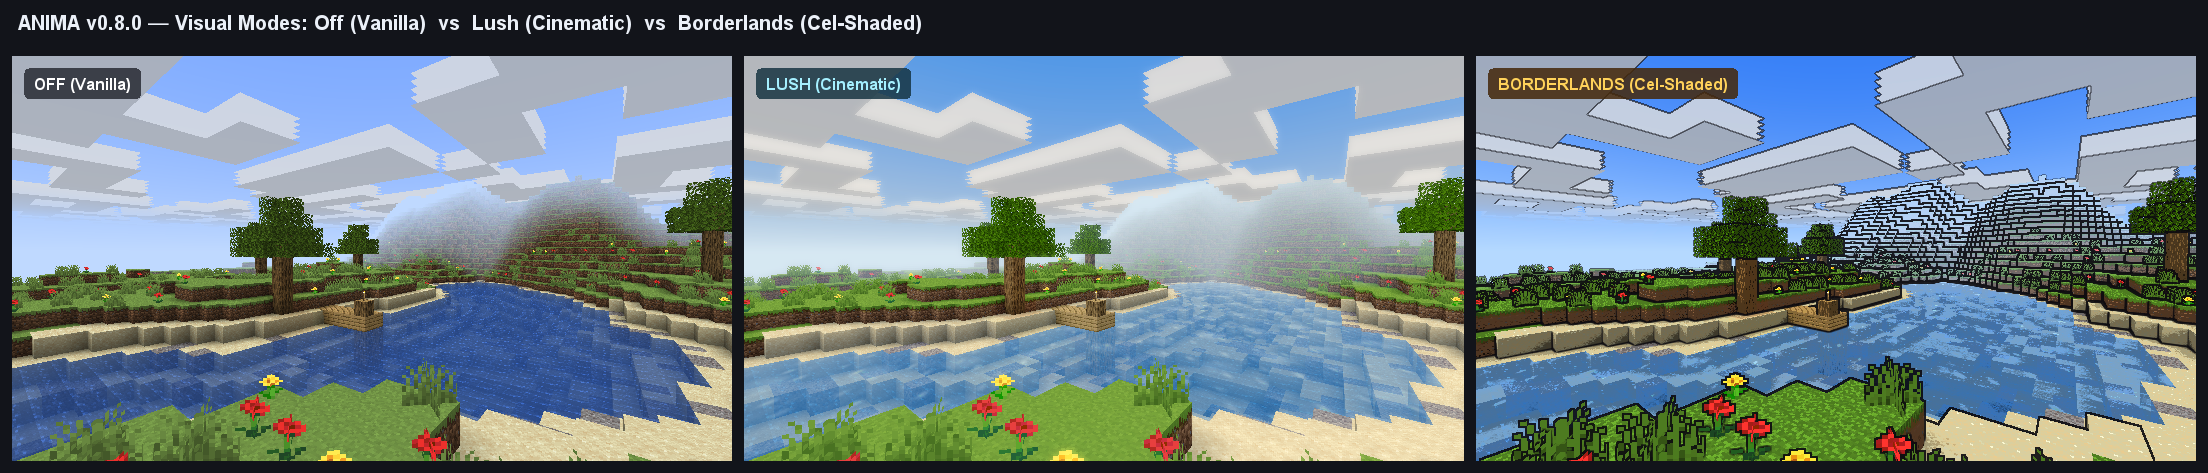
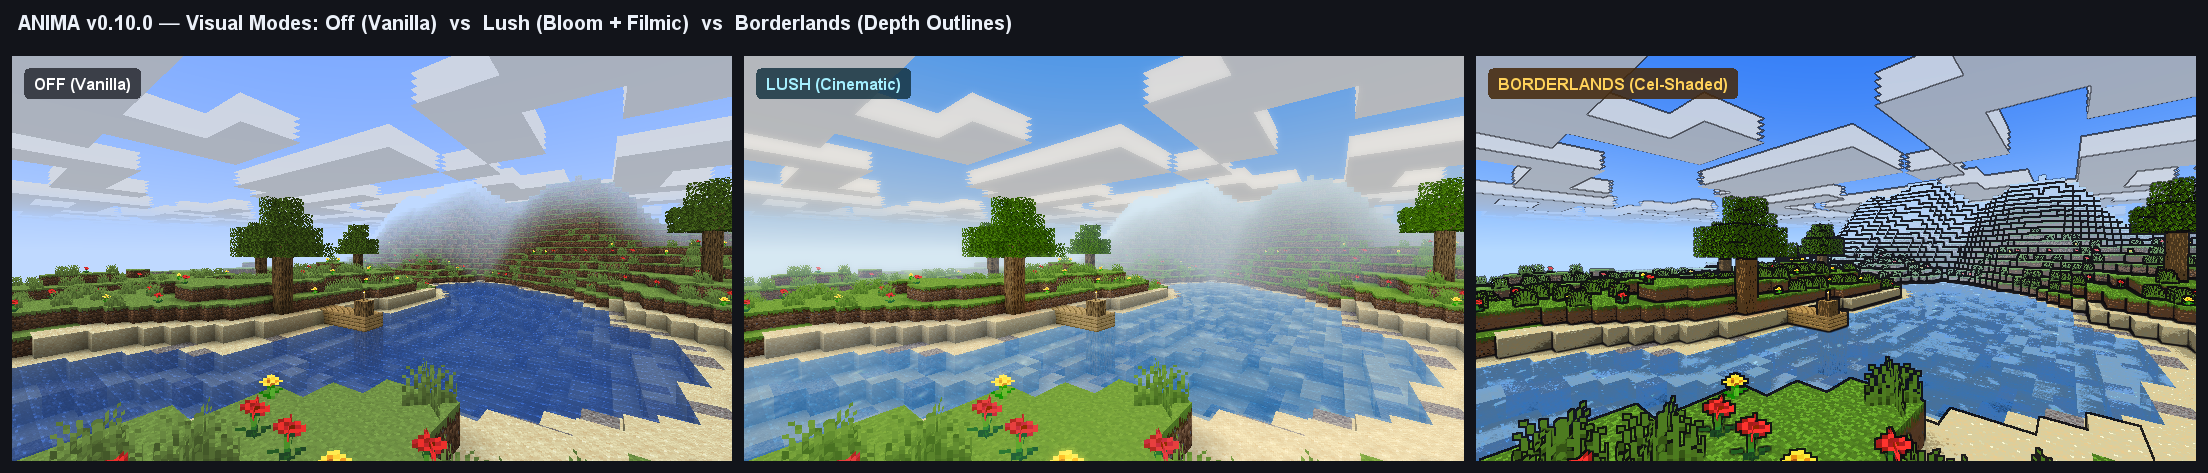
chore(renderer): update v0.10.0 render labels and regenerate comparison sheets

Changed region(s): [[0.0312, 0.0296, 0.4688, 0.0888]]

diff --git a/Anima-renderer/src/dev/anima/renderer/AnimaRendererMain.java b/Anima-renderer/src/dev/anima/renderer/AnimaRendererMain.java
@@ -120,11 +120,11 @@ public final class AnimaRendererMain {
         sg.fillRect(0, 0, sunSheet.getWidth(), sunSheet.getHeight());
         sg.setFont(new Font("SansSerif", Font.BOLD, 20));
         sg.setColor(new Color(235, 240, 248));
-        sg.drawString("ANIMA v0.7.0 (Lush) — Pixel-Art Sun & Crystal Wavy Water (Vanilla vs Anima Lush)", pad + 6, 30);
+        sg.drawString("ANIMA v0.10.0 (Lush) — Pixel-Art Sun & Crystal Wavy Water (Vanilla vs Anima Lush)", pad + 6, 30);
         sg.drawImage(sunVan, pad, headerH + pad, null);
         sg.drawImage(sunAni, pad * 2 + width, headerH + pad, null);
         drawBadge(sg, pad + 14, headerH + pad + 14, "VANILLA — Square Sun & Flat Water", new Color(25, 28, 35, 195), Color.WHITE);
-        drawBadge(sg, pad * 2 + width + 14, headerH + pad + 14, "ANIMA v0.7.0 (Lush) — Crystal Water & Pixel-Art Sun", new Color(18, 48, 62, 210), new Color(165, 240, 255));
+        drawBadge(sg, pad * 2 + width + 14, headerH + pad + 14, "ANIMA v0.10.0 (Lush) — Crystal Water & Pixel-Art Sun", new Color(18, 48, 62, 210), new Color(165, 240, 255));
         sg.dispose();
         Path sunPath = outDir.resolve("sun_showcase.png");
         ImageIO.write(sunSheet, "png", sunPath.toFile());
@@ -144,7 +144,7 @@ public final class AnimaRendererMain {
         mg.fillRect(0, 0, modeSheet.getWidth(), modeSheet.getHeight());
         mg.setFont(new Font("SansSerif", Font.BOLD, 20));
         mg.setColor(new Color(235, 240, 248));
-        mg.drawString("ANIMA v0.8.0 — Visual Modes: Off (Vanilla)  vs  Lush (Cinematic)  vs  Borderlands (Cel-Shaded)", pad + 6, 30);
+        mg.drawString("ANIMA v0.10.0 — Visual Modes: Off (Vanilla)  vs  Lush (Bloom + Filmic)  vs  Borderlands (Depth Outlines)", pad + 6, 30);
         mg.drawImage(mVan, pad, headerH + pad, null);
         mg.drawImage(mLush, pad * 2 + mw, headerH + pad, null);
         mg.drawImage(mBord, pad * 3 + mw * 2, headerH + pad, null);
@@ -188,7 +188,7 @@ public final class AnimaRendererMain {
             cg.fillRect(0, 0, cmp.getWidth(), cmp.getHeight());
             cg.setFont(new Font("SansSerif", Font.BOLD, 20));
             cg.setColor(new Color(235, 240, 248));
-            cg.drawString("3-WAY BENCHMARK: Vanilla 26.2  vs  Anima v0.7.0 Lush (Zero-Shader Mod)  vs  " + pack.name + " (" + pack.glslFileCount + " GLSL files)", pad + 6, 30);
+            cg.drawString("3-WAY BENCHMARK: Vanilla 26.2  vs  Anima v0.10.0 Lush (Bloom + Filmic)  vs  " + pack.name + " (" + pack.glslFileCount + " GLSL files)", pad + 6, 30);
 
             for (int i = 0; i < scenarios.length; i++) {
                 Scenario s = scenarios[i];
@@ -219,7 +219,7 @@ public final class AnimaRendererMain {
                 cg.drawImage(imgS, pad * 3 + cw * 2, rowY, null);
 
                 drawBadge(cg, pad + 10, rowY + 10, "VANILLA — " + s.id.toUpperCase() + " (" + tvMs + "ms)", new Color(25, 28, 35, 195), Color.WHITE);
-                drawBadge(cg, pad * 2 + cw + 10, rowY + 10, "ANIMA v0.7.0 LUSH — " + s.id.toUpperCase() + " (" + taMs + "ms)", new Color(18, 48, 62, 210), new Color(165, 240, 255));
+                drawBadge(cg, pad * 2 + cw + 10, rowY + 10, "ANIMA v0.10.0 LUSH — " + s.id.toUpperCase() + " (" + taMs + "ms)", new Color(18, 48, 62, 210), new Color(165, 240, 255));
                 drawBadge(cg, pad * 3 + cw * 2 + 10, rowY + 10, pack.name + " (" + tsMs + "ms)", new Color(58, 28, 18, 210), new Color(255, 215, 155));
 
                 System.out.printf("[Anima-renderer] 3-Way %-7s | Vanilla: %3d ms | Anima: %3d ms | %s: %3d ms%n", s.id, tvMs, taMs, pack.name, tsMs);
